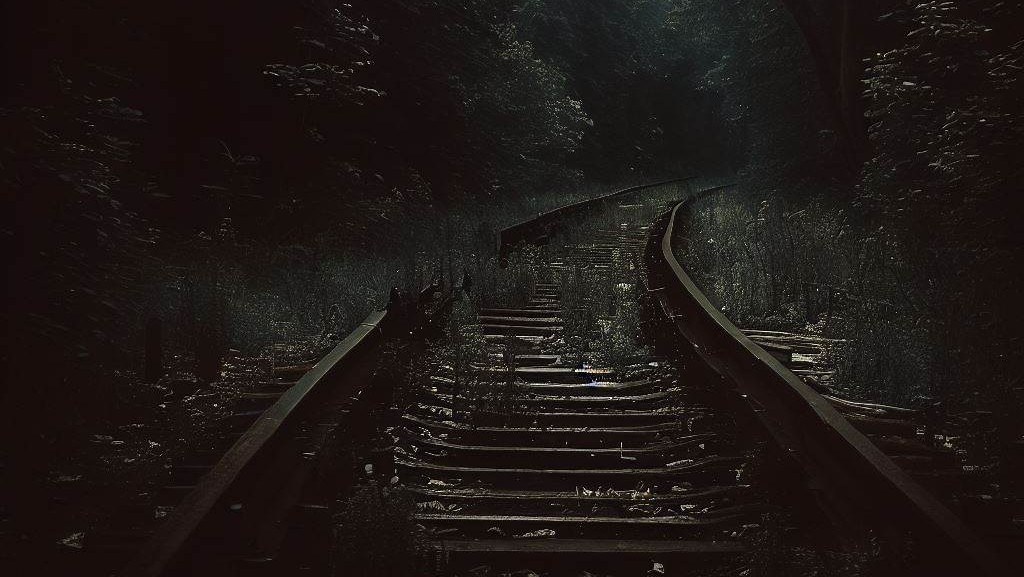
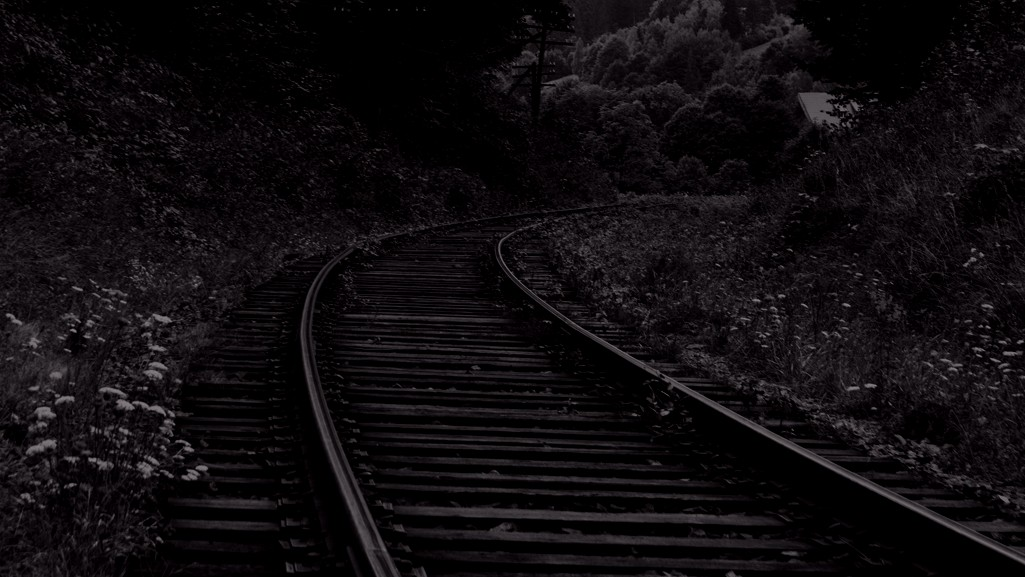
New update!
New background, fixed some bugs.

diff --git a/script.js b/script.js
@@ -1,5 +1,25 @@
 // document.addEventListener ('contextmenu', event => event.preventDefault ());
 
+window.addEventListener("scroll", function() {
+    var navbar = document.querySelector("nav");
+    if (window.pageYOffset > 100) {
+      navbar.style.backgroundColor = "rgba(53, 53, 53, 0.587)";
+    } else {
+      navbar.style.backgroundColor = "rgba(0, 0, 0, 0)";
+    }
+  });
+  
+  const navLinks = document.querySelectorAll('.nav-link');
+
+  navLinks.forEach(link => {
+    link.addEventListener('click', e => {
+      e.preventDefault();
+      const targetId = link.getAttribute('href');
+      const targetSection = document.querySelector(targetId);
+      targetSection.scrollIntoView({behavior: 'smooth'});
+    });
+  });
+
   function errormsg(){
     Swal.fire({
       icon: 'error',
@@ -78,22 +98,31 @@
   });
   
   // Funkce pro načítání jiného HTML souboru
-  window.addEventListener("resize", getTemplate);
+function loadHtmlFile(url) {
+  var xhr = new XMLHttpRequest();
+  xhr.open('GET', url, true);
+  xhr.onreadystatechange = function() {
+    if (xhr.readyState === 4 && xhr.status === 200) {
+      document.open();
+      document.write(xhr.responseText);
+      document.close();
+    }
+  };
+  xhr.send();
+}
 
-  CurrentPage = 'DesktopPage';
-  
-  function getTemplate() {
-      if (screen.width >= 767 && CurrentPage != 'DesktopPage') {
-          return window.location.replace("index.html");
-      }
-  
-      if (screen.width < 767 && CurrentPage != 'MobilePage') {
-          return window.location.replace("mobile.html");
-      }
+
+// Funkce pro kontrolu velikosti obrazovky
+function checkScreenSize() {
+  if (window.innerWidth < 800) {
+    loadHtmlFile('mobile.html'); // Cesta k mobilnímu HTML souboru
+  } else {
+    loadHtmlFile('index.html'); // Cesta k desktopovému HTML souboru
   }
-  
-  getTemplate();
-  
-  
-  
-  
+}
+
+// Kontrola velikosti obrazovky při načtení stránky
+checkScreenSize();
+
+// Kontrola velikosti obrazovky při změně velikosti okna
+window.addEventListener('resize', checkScreenSize);

diff --git a/style/style.css b/style/style.css
@@ -8,7 +8,7 @@
   }
   
   .nav {
-    background-color: rgba(53, 53, 53, 0.587);
+    background-color: rgba(53, 53, 53, 0.587) ;
     color: white;
     width: 100%;
     position: fixed;
@@ -24,6 +24,7 @@
   
   body {
     overflow-x: hidden;
+    overflow-y: scroll ;
     width: 100%;
   }
   
@@ -74,16 +75,7 @@
     opacity: 1;
     transition: all 0.3s ease-in-out;
     box-shadow: 0px 4px 4px rgba(0, 128, 128, 0.4);
-  }
-  
-  
-  body {
-    background-image: url(/images/railwaypic.jpg);
-    background-attachment: fixed;
-    background-size: cover;
-  }
-  
-  
+  }  
   
   .bg-image {
     position: relative;
@@ -201,16 +193,13 @@
     background-attachment: fixed;
     background-size: cover;
     margin: 0;
-  }
-  
-  html {
-    height: 100%;
-  }
-  
-  body {
     min-height: 100%;
     display: flex;
     flex-direction: column;
+    background-image: url(/images/backgroundimg.jpg);
+    background-attachment: fixed;
+    background-size: cover;
+    overflow-x: hidden;
   }
   
   footer {
@@ -218,11 +207,11 @@
   }
   
   #about-me {
-    scroll-margin-top: calc(50vh - 100px);
+    scroll-margin-top: calc(50vh - 120px);
   }
   
   #stories {
-    scroll-margin-top: calc(50vh - 240px);
+    scroll-margin-top: calc(50vh - 230px);
   }
 
  

diff --git a/index.html b/index.html
@@ -31,7 +31,7 @@
       <section class="about about-window" id="about-me">
         <h2>O mně</h2>
         <p>
-          Jmenuji se Matyáš Macke a je mi 17 let. Studuji informační technologie na střední škole <a href="https://oaneveklov.cz/" style="text-decoration: none;" onclick="redirect()" target="_blank">Obchodní akademie Neveklov</a>. Mým oblýbeným 
+          Jmenuji se Matyáš Macke a je mi 17 let. Studuji informační technologie na střední škole <a href="https://oaneveklov.cz/" style="text-decoration: none; color: #015f5c;" onclick="redirect()" target="_blank">Obchodní akademie Neveklov</a>. Mým oblýbeným 
           sportem je Bowling. Hraji ho už přibližně 12 let a můj nejvyšší nához je 277. Hodně mě zajímají počítače, sítě, umělá inteligence a programování a stojím si za
           názorem, že počítače jsou dneska nedílnou součástí našeho světa a je to budoucnost lidstva. 
           Moje oblíbená činnost je procházení opuštěných míst, konkrétně opuštěných nádraží a kolejí. Doufám, že se vám líbí můj web. 

diff --git a/style/mobile.css b/style/mobile.css
@@ -1,8 +1,9 @@
 @import url('https://fonts.googleapis.com/css2?family=Roboto&display=swap');
+@import url('https://fonts.googleapis.com/css2?family=Raleway&display=swap');
 
 body {
     font-family: 'Roboto', sans-serif;
-    background-image: url(/images/railwaypic.jpg);
+    background-image: url(/images/backgroundimg.jpg);
     margin: 0;
     padding: 0;
     display: flex;
@@ -34,6 +35,7 @@ h1 { /* Přidáno */
     text-align: center;
     color: white;
     text-transform: uppercase;
+    font-family: 'Raleway', sans-serif;
 }
 
 .about {
@@ -71,7 +73,7 @@ h1 { /* Přidáno */
 .button:hover {
     background-color: #9c9c9c;
     min-width: 230px;
-    transition: 0.2s;
+    transition: 0.2s cubic-bezier(.5, 1.75, .75, 1.25);
     border-radius: 30px;
 }
 
